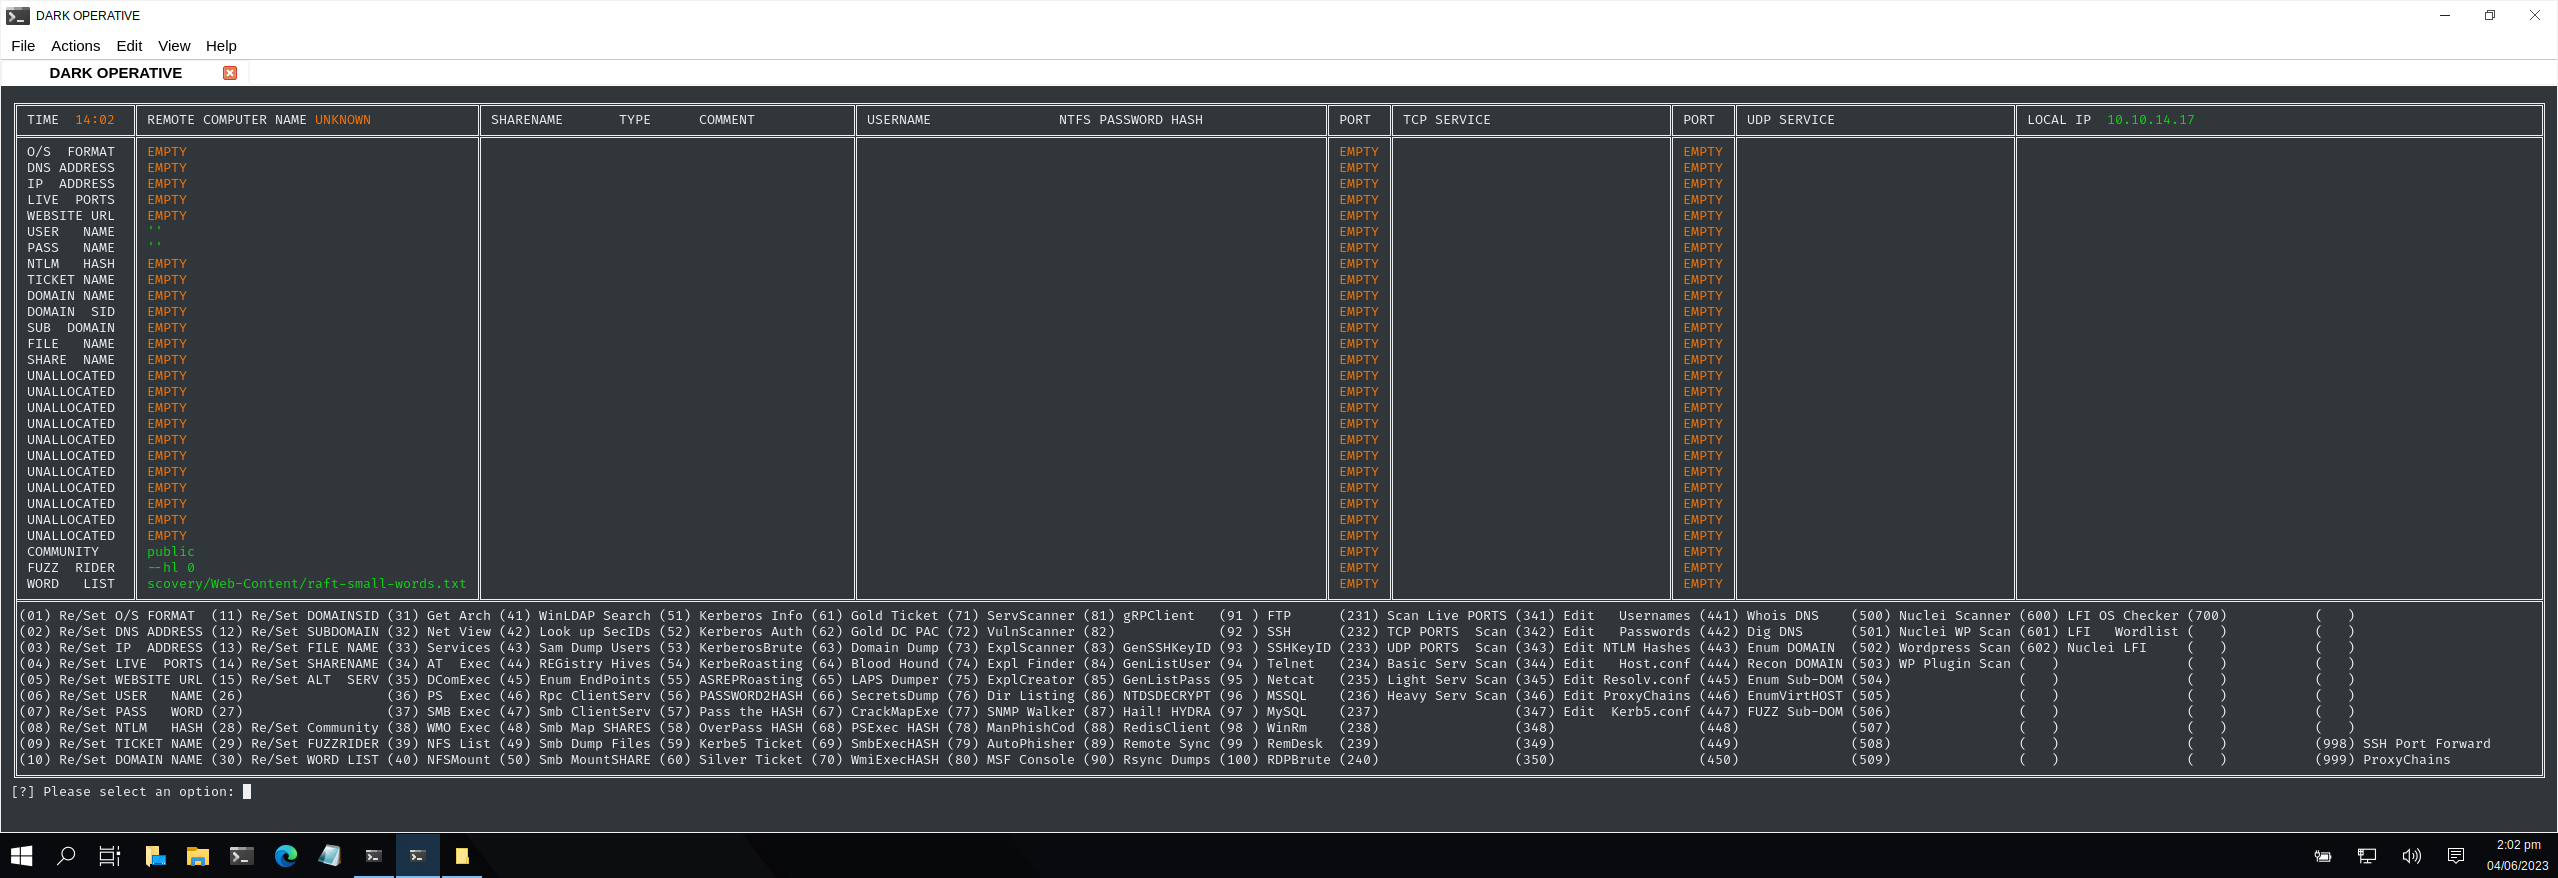
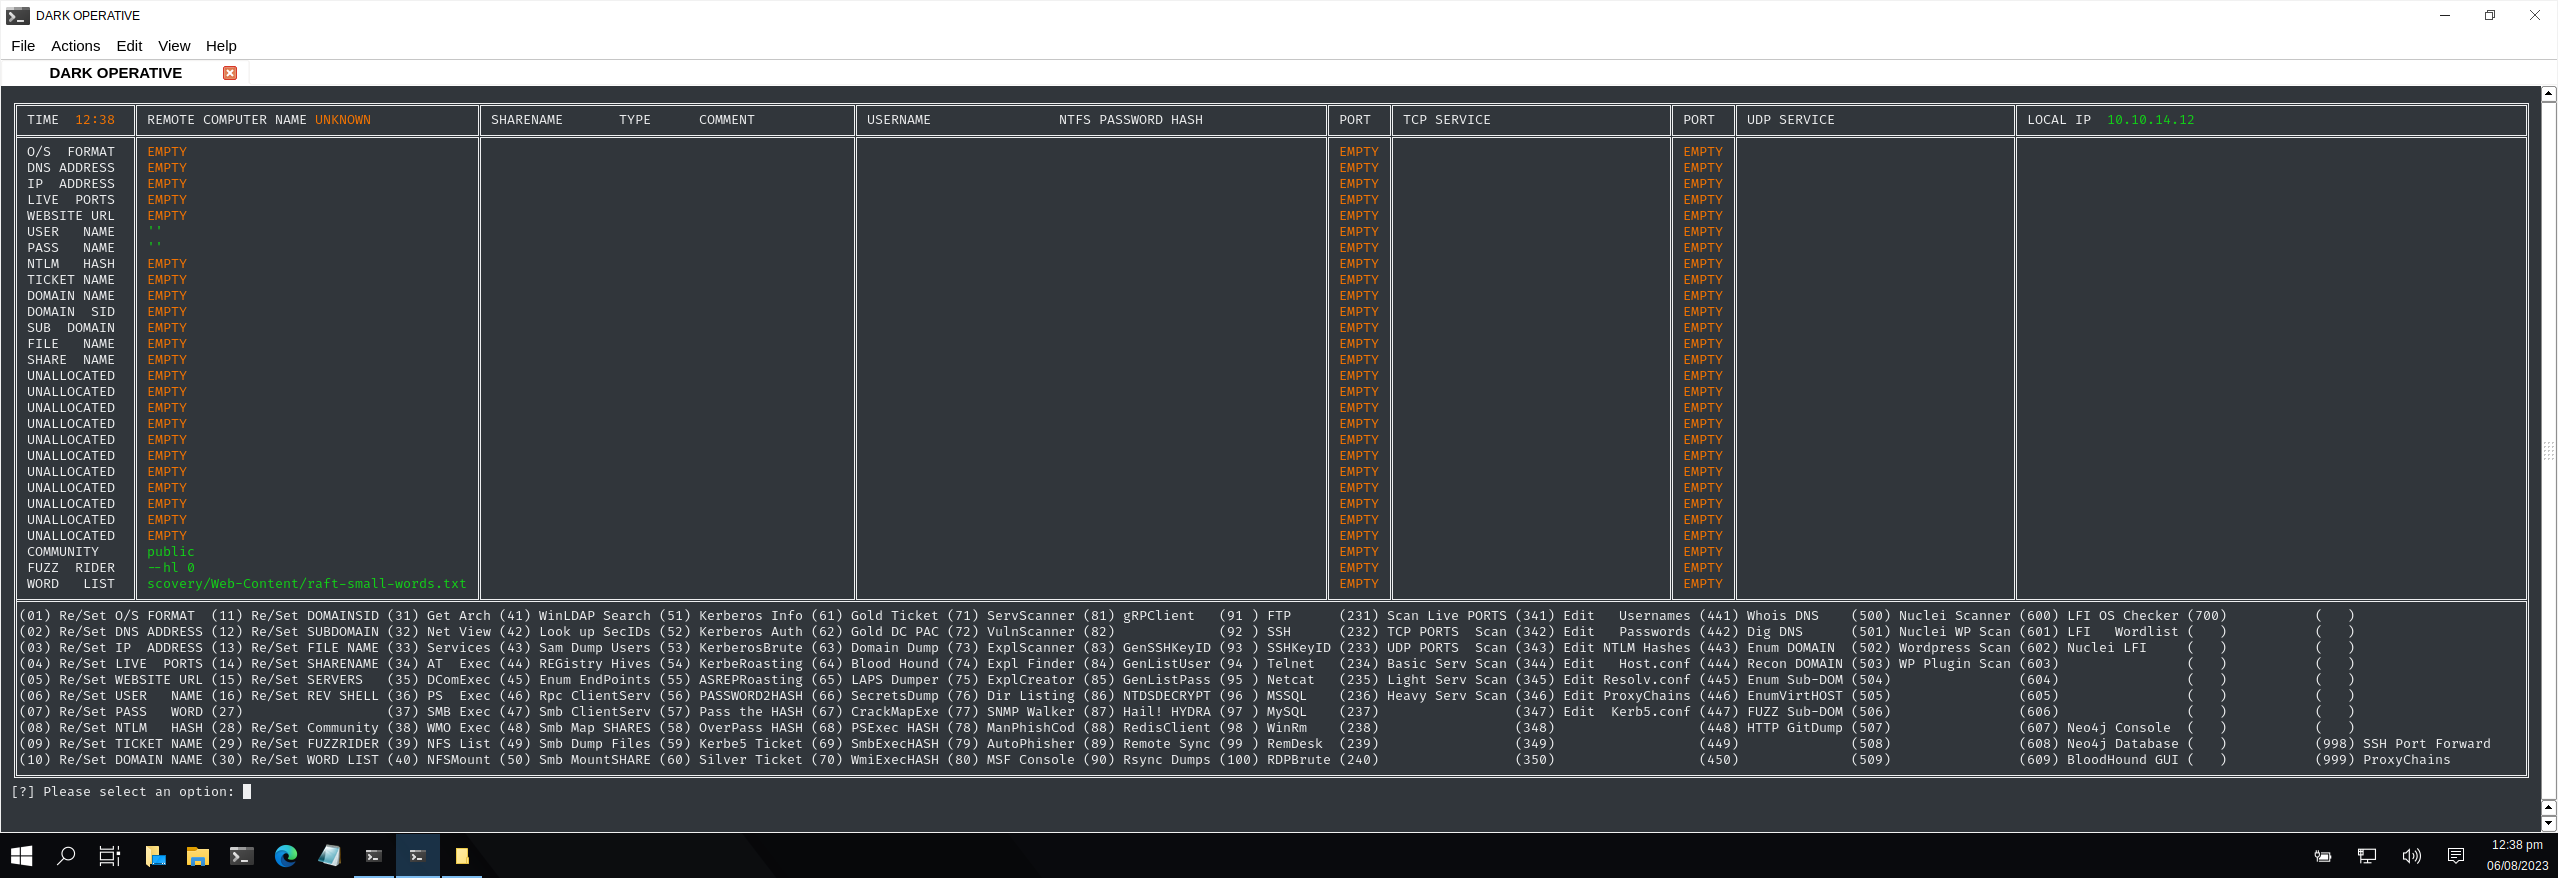
LARX

Changed region(s): [[0.9574, 0.0923, 1.0, 0.9841], [0.803, 0.8303, 0.8647, 0.8918], [0.0927, 0.7688, 0.1544, 0.7995]]

diff --git a/Dark-Operative.py b/Dark-Operative.py
@@ -776,13 +776,13 @@ def options():
    print('\u2551' + "(01) Re/Set O/S FORMAT  (11) Re/Set DOMAINSID (31) Get Arch (41) WinLDAP Search (51) Kerberos Info (61) Gold Ticket (71) ServScanner (81) gRPClient   (91 ) FTP      (231) Scan Live PORTS (341) Edit   Usernames (441) Whois DNS    (500) Nuclei Scanner (600) LFI OS Checker (700)           (   )                     " + '\u2551')   
    print('\u2551' + "(02) Re/Set DNS ADDRESS (12) Re/Set SUBDOMAIN (32) Net View (42) Look up SecIDs (52) Kerberos Auth (62) Gold DC PAC (72) VulnScanner (82)             (92 ) SSH      (232) TCP PORTS  Scan (342) Edit   Passwords (442) Dig DNS      (501) Nuclei WP Scan (601) LFI   Wordlist (   )           (   )                     " + '\u2551')      
    print('\u2551' + "(03) Re/Set IP  ADDRESS (13) Re/Set FILE NAME (33) Services (43) Sam Dump Users (53) KerberosBrute (63) Domain Dump (73) ExplScanner (83) GenSSHKeyID (93 ) SSHKeyID (233) UDP PORTS  Scan (343) Edit NTLM Hashes (443) Enum DOMAIN  (502) Wordpress Scan (602) Nuclei LFI     (   )           (   )                     " + '\u2551')   
-   print('\u2551' + "(04) Re/Set LIVE  PORTS (14) Re/Set SHARENAME (34) AT  Exec (44) REGistry Hives (54) KerbeRoasting (64) Blood Hound (74) Expl Finder (84) GenListUser (94 ) Telnet   (234) Basic Serv Scan (344) Edit   Host.conf (444) Recon DOMAIN (503) WP Plugin Scan (   )                (   )           (   )                     " + '\u2551')
-   print('\u2551' + "(05) Re/Set WEBSITE URL (15) Re/Set SERVERS   (35) DComExec (45) Enum EndPoints (55) ASREPRoasting (65) LAPS Dumper (75) ExplCreator (85) GenListPass (95 ) Netcat   (235) Light Serv Scan (345) Edit Resolv.conf (445) Enum Sub-DOM (504)                (   )                (   )           (   )                     " + '\u2551')
-   print('\u2551' + "(06) Re/Set USER   NAME (16) Re/Set REV SHELL (36) PS  Exec (46) Rpc ClientServ (56) PASSWORD2HASH (66) SecretsDump (76) Dir Listing (86) NTDSDECRYPT (96 ) MSSQL    (236) Heavy Serv Scan (346) Edit ProxyChains (446) EnumVirtHOST (505)                (   )                (   )           (   )                     " + '\u2551')
-   print('\u2551' + "(07) Re/Set PASS   WORD (27)                  (37) SMB Exec (47) Smb ClientServ (57) Pass the HASH (67) CrackMapExe (77) SNMP Walker (87) Hail! HYDRA (97 ) MySQL    (237)                 (347) Edit  Kerb5.conf (447) FUZZ Sub-DOM (506)                (   )                (   )           (   )                     " + '\u2551')
-   print('\u2551' + "(08) Re/Set NTLM   HASH (28) Re/Set Community (38) WMO Exec (48) Smb Map SHARES (58) OverPass HASH (68) PSExec HASH (78) ManPhishCod (88) RedisClient (98 ) WinRm    (238)                 (348)                  (448) HTTP GitDump (507)                (   )                (   )           (   )                     " + '\u2551')
-   print('\u2551' + "(09) Re/Set TICKET NAME (29) Re/Set FUZZRIDER (39) NFS List (49) Smb Dump Files (59) Kerbe5 Ticket (69) SmbExecHASH (79) AutoPhisher (89) Remote Sync (99 ) RemDesk  (239)                 (349)                  (449)              (508)                (   )                (   )           (998) SSH Port Forward    " + '\u2551')
-   print('\u2551' + "(10) Re/Set DOMAIN NAME (30) Re/Set WORD LIST (40) NFSMount (50) Smb MountSHARE (60) Silver Ticket (70) WmiExecHASH (80) MSF Console (90) Rsync Dumps (100) RDPBrute (240)                 (350)                  (450)              (509)                (   )                (   )           (999)", end= ' ')
+   print('\u2551' + "(04) Re/Set LIVE  PORTS (14) Re/Set SHARENAME (34) AT  Exec (44) REGistry Hives (54) KerbeRoasting (64) Blood Hound (74) Expl Finder (84) GenListUser (94 ) Telnet   (234) Basic Serv Scan (344) Edit   Host.conf (444) Recon DOMAIN (503) WP Plugin Scan (603)                (   )           (   )                     " + '\u2551')
+   print('\u2551' + "(05) Re/Set WEBSITE URL (15) Re/Set SERVERS   (35) DComExec (45) Enum EndPoints (55) ASREPRoasting (65) LAPS Dumper (75) ExplCreator (85) GenListPass (95 ) Netcat   (235) Light Serv Scan (345) Edit Resolv.conf (445) Enum Sub-DOM (504)                (604)                (   )           (   )                     " + '\u2551')
+   print('\u2551' + "(06) Re/Set USER   NAME (16) Re/Set REV SHELL (36) PS  Exec (46) Rpc ClientServ (56) PASSWORD2HASH (66) SecretsDump (76) Dir Listing (86) NTDSDECRYPT (96 ) MSSQL    (236) Heavy Serv Scan (346) Edit ProxyChains (446) EnumVirtHOST (505)                (605)                (   )           (   )                     " + '\u2551')
+   print('\u2551' + "(07) Re/Set PASS   WORD (27)                  (37) SMB Exec (47) Smb ClientServ (57) Pass the HASH (67) CrackMapExe (77) SNMP Walker (87) Hail! HYDRA (97 ) MySQL    (237)                 (347) Edit  Kerb5.conf (447) FUZZ Sub-DOM (506)                (606)                (   )           (   )                     " + '\u2551')
+   print('\u2551' + "(08) Re/Set NTLM   HASH (28) Re/Set Community (38) WMO Exec (48) Smb Map SHARES (58) OverPass HASH (68) PSExec HASH (78) ManPhishCod (88) RedisClient (98 ) WinRm    (238)                 (348)                  (448) HTTP GitDump (507)                (607) Neo4j Console  (   )           (   )                     " + '\u2551')
+   print('\u2551' + "(09) Re/Set TICKET NAME (29) Re/Set FUZZRIDER (39) NFS List (49) Smb Dump Files (59) Kerbe5 Ticket (69) SmbExecHASH (79) AutoPhisher (89) Remote Sync (99 ) RemDesk  (239)                 (349)                  (449)              (508)                (608) Neo4j Database (   )           (998) SSH Port Forward    " + '\u2551')
+   print('\u2551' + "(10) Re/Set DOMAIN NAME (30) Re/Set WORD LIST (40) NFSMount (50) Smb MountSHARE (60) Silver Ticket (70) WmiExecHASH (80) MSF Console (90) Rsync Dumps (100) RDPBrute (240)                 (350)                  (450)              (509)                (609) BloodHound GUI (   )           (999)", end= ' ')
    if proxyChains == 1:
       print(colored(menuName,colour0, attrs=['blink']), end= ' ' + '\u2551')
    else:
@@ -4261,6 +4261,60 @@ while True:
       print(colored("[*] Scanning webpage...", colour3))   
       remoteCOM("nuclei -target " + WEB.rstrip("") + " --tags LFI")
       prompt()          
+               
+# ------------------------------------------------------------------------------------- 
+# AUTHOR  : Terence Broadbent                                                    
+# CONTRACT: GitHub
+# Version : TREADSTONE                                                             
+# Details : Menu option selected - Start Neo4j Console
+# Modified: N/A
+# -------------------------------------------------------------------------------------
+
+   if selection == '607':
+      print(colored("[*] Starting Neo4j Console...", colour3))         
+      localCOM("xdotool key Ctrl+Shift+T")
+      localCOM("xdotool key Alt+Shift+S; xdotool type 'NEO4J CONSOLE'; xdotool key Return")
+      dispBanner("NEO4J CONSOLE",0) 
+      localCOM("xdotool type 'clear; cat banner.tmp'; xdotool key Return")
+      localCOM("xdotool type 'neo4j console'; xdotool key Return")
+      localCOM("xdotool key Ctrl+Tab") 
+      prompt() 
+      
+# ------------------------------------------------------------------------------------- 
+# AUTHOR  : Terence Broadbent                                                    
+# CONTRACT: GitHub
+# Version : TREADSTONE                                                             
+# Details : Menu option selected - Start Neo4j Database
+# Modified: N/A
+# -------------------------------------------------------------------------------------
+
+   if selection == '608':
+      print(colored("[*] Starting Neo4j Database...", colour3))         
+      localCOM("xdotool key Ctrl+Shift+T")
+      localCOM("xdotool key Alt+Shift+S; xdotool type 'NEO4J GUI'; xdotool key Return")
+      dispBanner("NEO4J GUI",0) 
+      localCOM("xdotool type 'clear; cat banner.tmp'; xdotool key Return")
+      localCOM("xdotool type 'firefox http://localhost:7474'; xdotool key Return")
+      localCOM("xdotool key Ctrl+Tab") 
+      prompt() 
+      
+# ------------------------------------------------------------------------------------- 
+# AUTHOR  : Terence Broadbent                                                    
+# CONTRACT: GitHub
+# Version : TREADSTONE                                                             
+# Details : Menu option selected - Start Neo4j Database
+# Modified: N/A
+# -------------------------------------------------------------------------------------
+
+   if selection == '609':
+      print(colored("[*] Starting Neo4j Database...", colour3))         
+      localCOM("xdotool key Ctrl+Shift+T")
+      localCOM("xdotool key Alt+Shift+S; xdotool type 'BLOODHOUND GUI'; xdotool key Return")
+      dispBanner("BLOODHOUND GUI",0) 
+      localCOM("xdotool type 'clear; cat banner.tmp'; xdotool key Return")
+      localCOM("xdotool type 'bloodhound'; xdotool key Return")
+      localCOM("xdotool key Ctrl+Tab") 
+      prompt()      
       
 # ------------------------------------------------------------------------------------- 
 # AUTHOR  : Terence Broadbent                                                    
@@ -4278,7 +4332,7 @@ while True:
          remoteCOM("ssh -L " + TPORT + ":127.0.0.1:" + TPORT + " " + USR.rstrip(" ") + "@" + DOM.rstrip(" "))
          prompt()
       else:
-         pass  
+         pass 
       
 # ------------------------------------------------------------------------------------- 
 # AUTHOR  : Terence Broadbent                                                    

diff --git a/README.md b/README.md
@@ -32,7 +32,7 @@ A comprehensive, yet sleek and portable python script file that enables cyber se
 | python3   | install.py            | e56e4687813d49f80a2e5712e9378300 | Install Program     | TREADSTONE   |
 | python3   | exploits.py           | 7e1381abca8256af1392daeb68524746 | Install Exploits    | TREADSTONE   |
 | python3   | RogueAgent.py         | 1842c3c57a3038f6a546283191493f16 | Command Centre      | TREADSTONE   |
-| python3   | Dark-Operative.py     | 452684b028ce688d09bf126cb83b50a3 | Command Centre (WS) | LARX (BETA)  |
+| python3   | Dark-Operative.py     | 2eae946f0a6203a9546c44808d65f2e8 | Command Centre (WS) | LARX (BETA)  |
 | python3   | shell.py              | 0ae617318d2c78a587ea2844733d1db0 | Auto Reverse Shell  | LARX         |
 | SQLite3   | RA.db                 | bcfd3cd2c5846250f9614c4c6b71b0b3 | Program Database    | TREADSTONE   |
        
